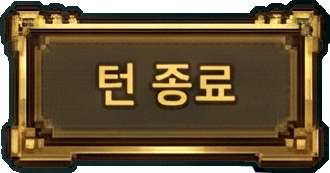
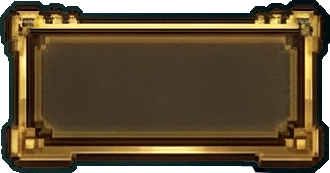
턴 종료 버튼 텍스트 추가 및 폰트 변경
- NeoDunggeunmo 폰트 적용
- 이미지 위에 "턴 종료" 텍스트 오버레이

Changed region(s): [[0.4545, 0.3468, 0.7273, 0.6358], [0.2727, 0.3468, 0.4242, 0.6358]]

diff --git a/src/components/combat/CombatScreen.tsx b/src/components/combat/CombatScreen.tsx
@@ -1453,21 +1453,36 @@ export function CombatScreen() {
             disabled={isEndingTurn || isPlayerDying || isEndTurnLocked}
             className={`relative active:scale-95 transition-all duration-300 ${isEndingTurn || isEndTurnLocked ? 'opacity-50 cursor-not-allowed' : 'hover:scale-105'}`}
           >
-            <img
-              src="/turnend.png"
-              alt="턴 종료"
-              style={{
-                imageRendering: 'pixelated',
-                width: '165px',
-                height: '87px',
-                filter: energy === 0 && !isEndingTurn && !isEndTurnLocked
-                  ? 'drop-shadow(0 0 12px rgba(255, 200, 100, 0.8))'
-                  : 'drop-shadow(0 0 6px rgba(255, 150, 50, 0.4))',
-                animation: energy === 0 && !isEndingTurn && !isEndTurnLocked
-                  ? 'energy-glow 2s ease-in-out infinite'
-                  : 'none',
-              }}
-            />
+            <div className="relative">
+              <img
+                src="/turnend.png"
+                alt="턴 종료"
+                style={{
+                  imageRendering: 'pixelated',
+                  width: '165px',
+                  height: '87px',
+                  filter: energy === 0 && !isEndingTurn && !isEndTurnLocked
+                    ? 'drop-shadow(0 0 12px rgba(255, 200, 100, 0.8))'
+                    : 'drop-shadow(0 0 6px rgba(255, 150, 50, 0.4))',
+                  animation: energy === 0 && !isEndingTurn && !isEndTurnLocked
+                    ? 'energy-glow 2s ease-in-out infinite'
+                    : 'none',
+                }}
+              />
+              <span
+                className="absolute inset-0 flex items-center justify-center"
+                style={{
+                  fontFamily: '"NeoDunggeunmo", cursive',
+                  fontSize: '20px',
+                  color: energy === 0 ? '#f0d890' : '#d4b870',
+                  textShadow: energy === 0
+                    ? '0 0 8px rgba(212, 168, 75, 0.6), 0 2px 4px rgba(0,0,0,0.8)'
+                    : '0 2px 4px rgba(0,0,0,0.8)',
+                }}
+              >
+                턴 종료
+              </span>
+            </div>
           </button>
           {/* 턴 끝내기 툴팁 */}
           {showEndTurnTooltip && (
